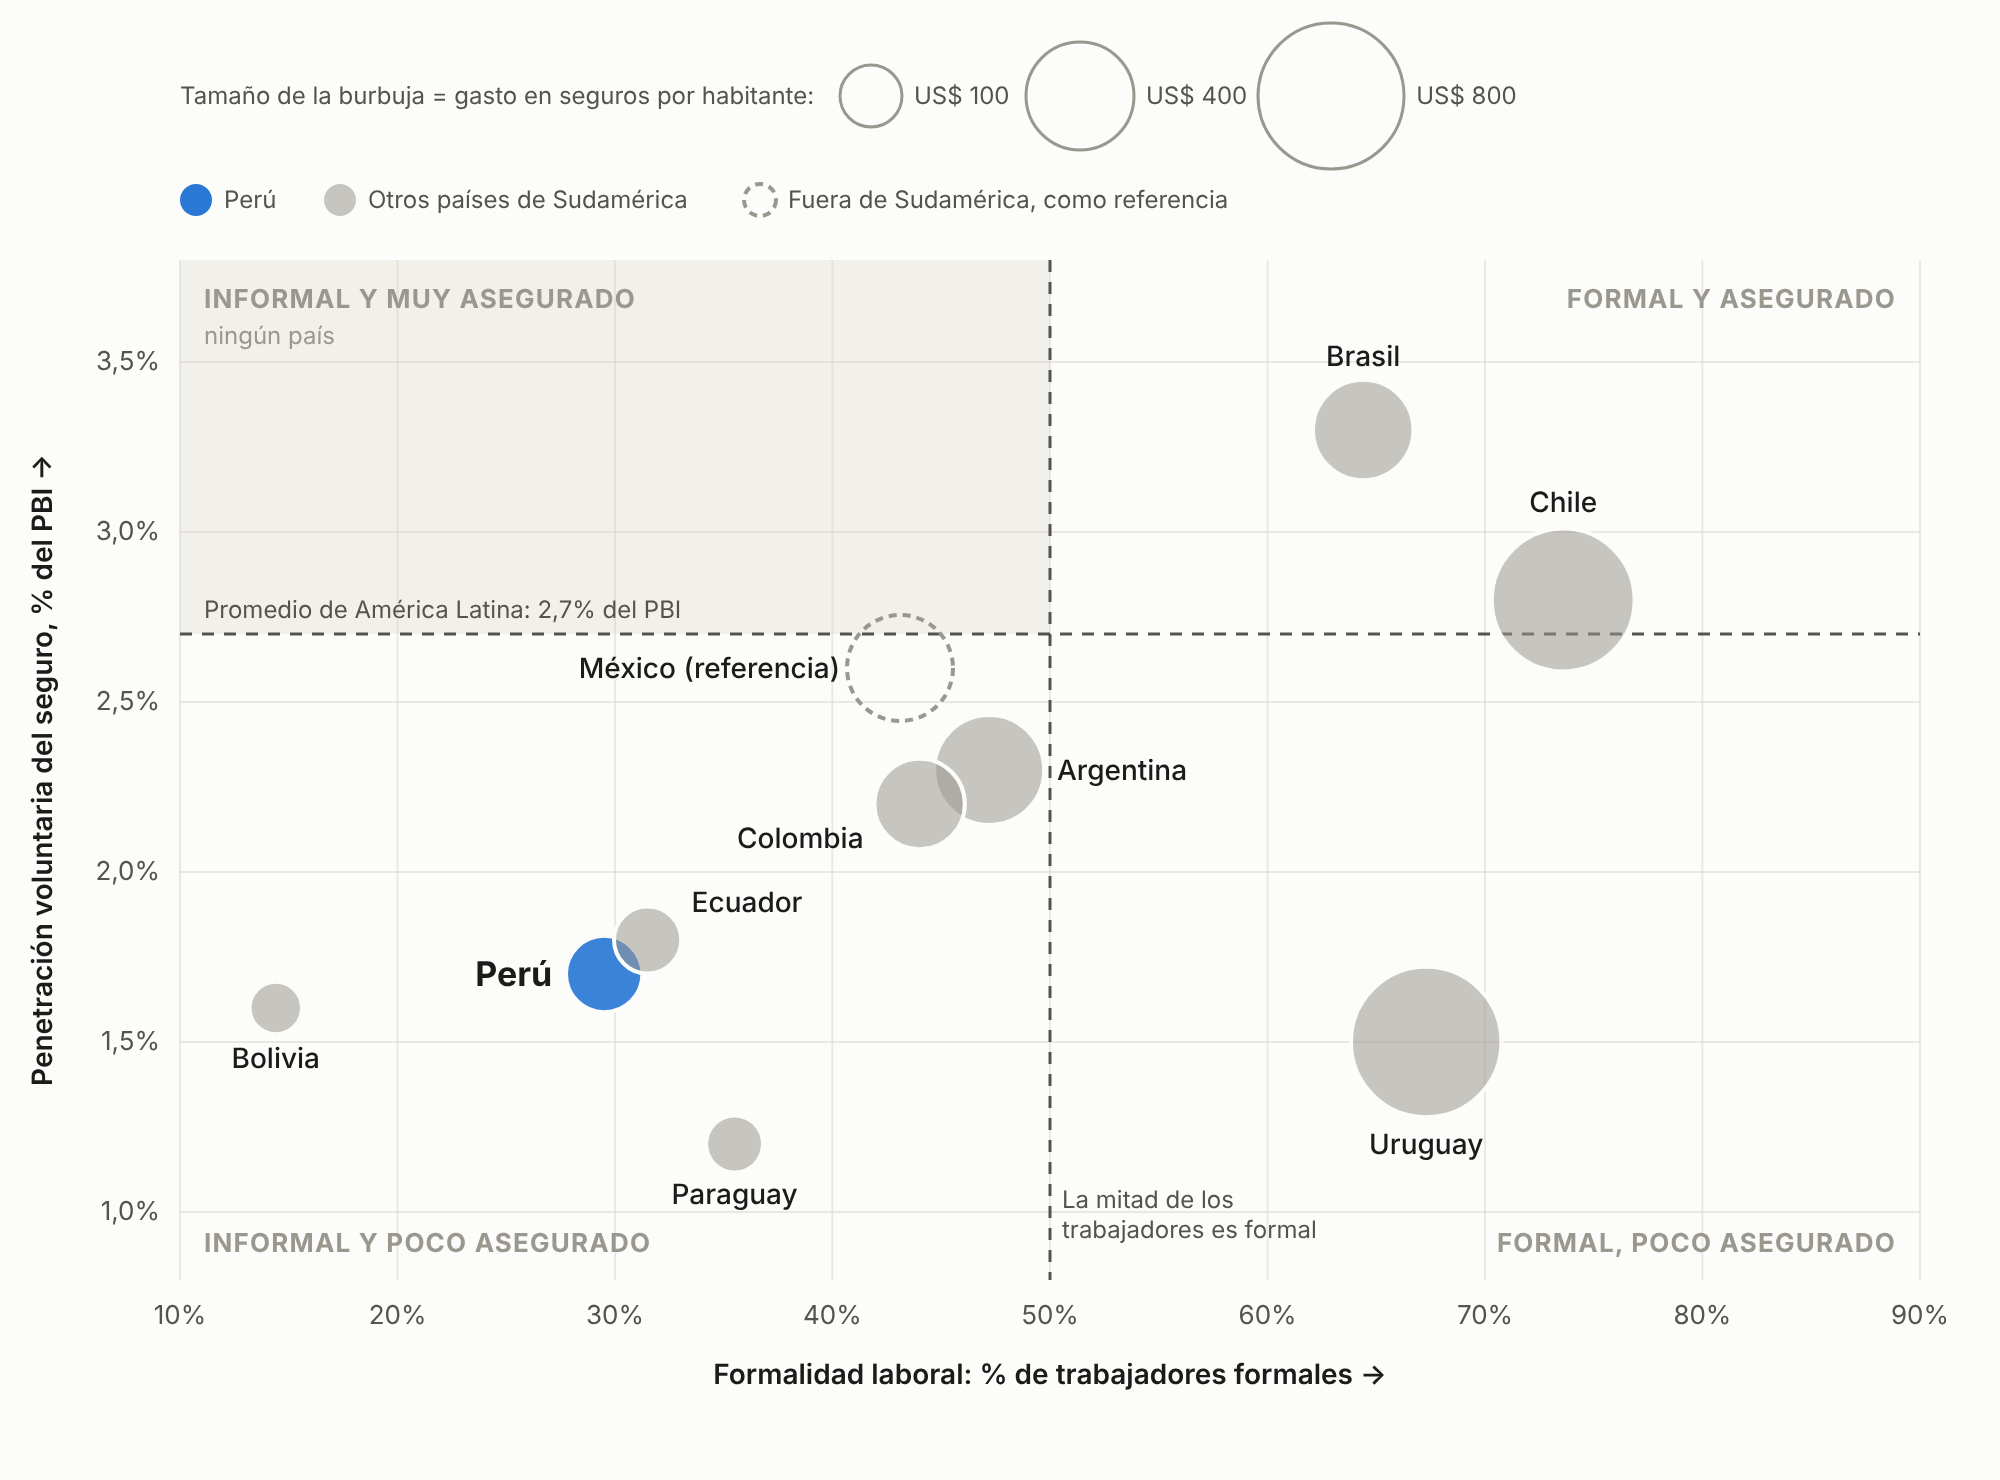
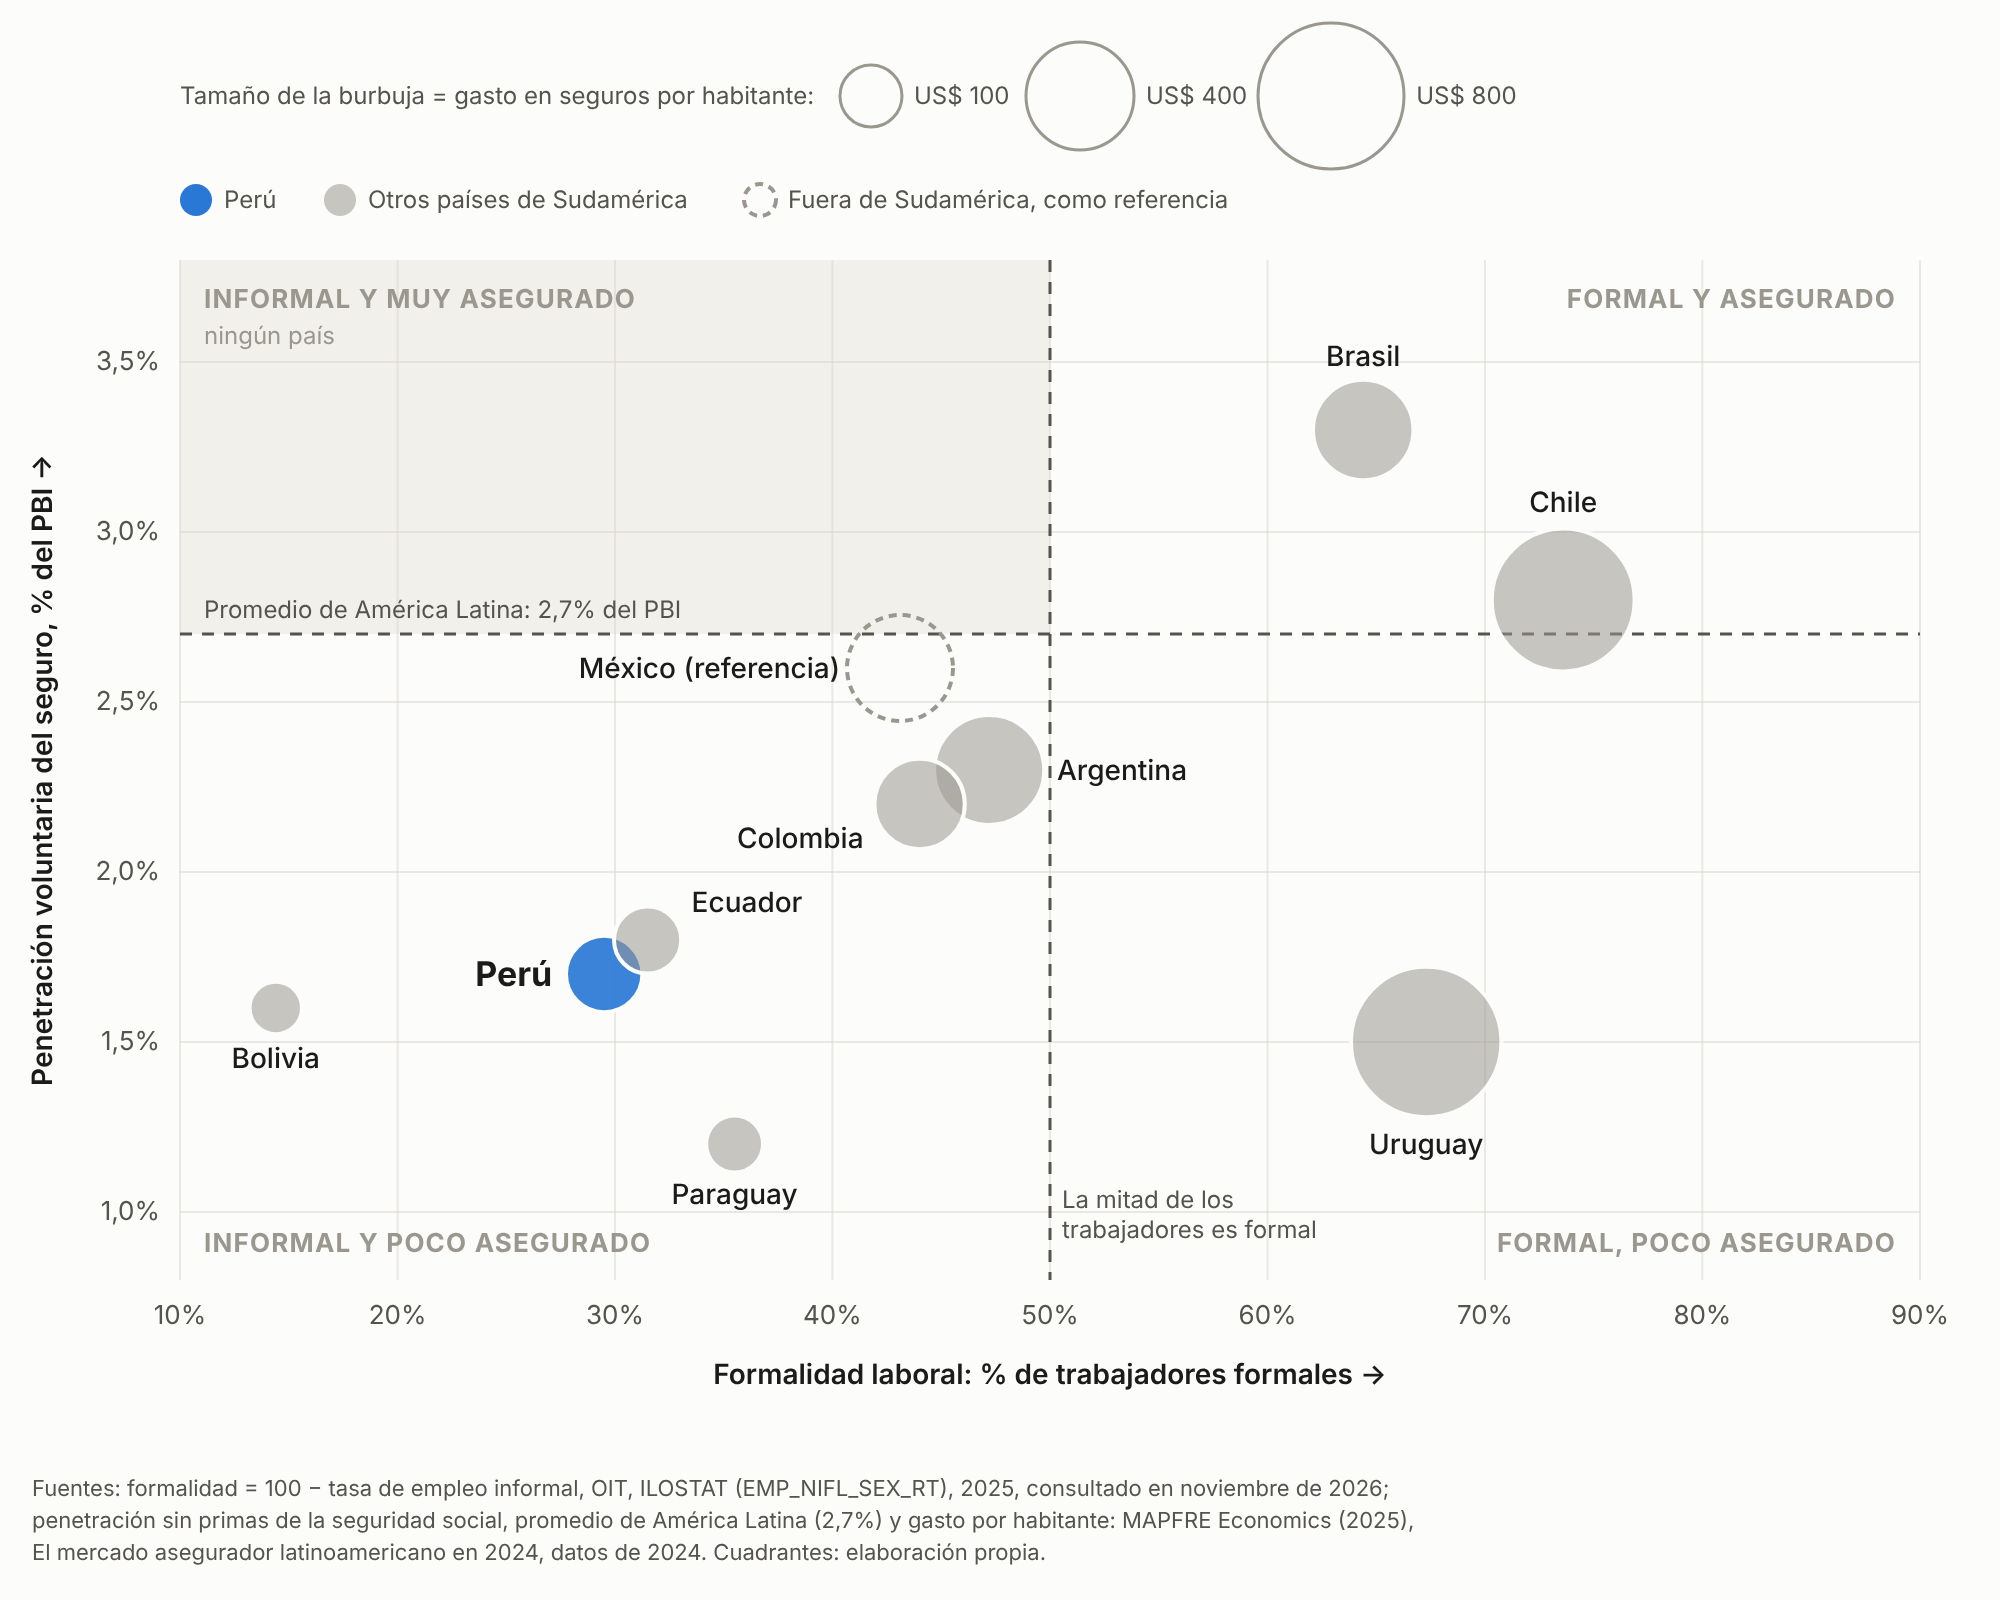
Agrega fuentes al pie de los tres gráficos y nota de verificación
Claude-Session: https://claude.ai/code/session_0172Gzwbb2YLHGW14wEzAdeb

diff --git a/reports/presentacion-sudamerica/fuentes-y-verificacion.md b/reports/presentacion-sudamerica/fuentes-y-verificacion.md
@@ -1,0 +1,45 @@
+# Fuentes y verificación de los tres gráficos
+
+Verificación hecha el 23 de noviembre de 2026. Se volvieron a descargar las fuentes y se comparó cada cifra del gráfico con la fuente: 157 cifras revisadas, 0 diferencias.
+
+## 1. Informalidad y penetración de seguros (`cuadrantes.svg` / `.png`)
+
+| Dato | Fuente | Año del dato |
+|---|---|---|
+| Formalidad (eje X) = 100 − tasa de empleo informal | OIT, ILOSTAT, indicador EMP_NIFL_SEX_RT (ambos sexos), consultado en rplumber.ilo.org | 2025 |
+| Penetración sin primas de la seguridad social (eje Y) | MAPFRE Economics (2025), *El mercado asegurador latinoamericano en 2024*, cuadro de penetración ajustada | 2024 |
+| Gasto en seguros por habitante (tamaño) | MAPFRE Economics (2025), mismo informe, cuadro de densidad | 2024 |
+| Promedio de América Latina, 2,7% del PBI | MAPFRE Economics (2025), mismo informe | 2024 |
+
+Cifras: Perú 70,5% informal / 1,7% / US$ 173; Bolivia 85,6 / 1,6 / 63; Ecuador 68,5 / 1,8 / 124; Paraguay 64,5 / 1,2 / 78; Colombia 56,0 / 2,2 / 261; México 56,9 / 2,6 / 383; Argentina 52,8 / 2,3 / 418; Brasil 35,6 / 3,3 / 338; Uruguay 32,7 / 1,5 / 853; Chile 26,4 / 2,8 / 762.
+
+Ojo: las cifras de informalidad de ILOSTAT difieren de las del *Panorama Laboral* de la OIT que cita la prensa (por ejemplo, Uruguay 32,7% frente a 22,2%), porque se calculan sobre bases distintas. En el gráfico se usa ILOSTAT, porque da la serie de todos los países desde una misma base de datos.
+
+## 2. Conductas de digitalización (`digitalizacion.svg` / `.png`)
+
+| Dato | Fuente | Año del dato |
+|---|---|---|
+| Tiene una cuenta | Banco Mundial (2025), Global Findex Database 2025, FX.OWN.TOTL.ZS (igual a account.t.d) | 2024 |
+| Hizo o recibió un pago digital | Banco Mundial (2025), Global Findex Database 2025, g20.any | 2024; Chile y Uruguay, 2021 (último disponible) |
+
+Consultado en api.worldbank.org.
+
+## 3. Parámetros de conducta financiera (`matriz-conducta.svg` / `.png`)
+
+Fuente: Banco Mundial (2025), Global Findex Database 2025, datos de 2024, api.worldbank.org.
+
+| Fila del gráfico | Código |
+|---|---|
+| Ahorró dinero en el último año | save.any.t.d |
+| Ahorró en un banco, financiera o billetera | fin17a.17a1.d |
+| Pidió prestado a familiares o amigos | fin22b |
+| Pidió prestado para gastos de salud | fin22d |
+| En una emergencia, recurriría a la familia | fin24fam |
+| En una emergencia, usaría sus ahorros | fin24sav |
+| Lo que más le preocupa: gastos médicos graves | fin45c |
+| Lo que más le preocupa: dinero para la vejez | fin45a |
+| Paga con regularidad a una aseguradora | fin19 |
+
+Las 90 celdas del gráfico coinciden con la fuente. La distancia es un cálculo propio: cada indicador se estandariza con los 20 países que tienen los nueve datos, y la distancia es la raíz del promedio de las nueve diferencias al cuadrado respecto de Perú.
+
+Los datos descargados están en `research_notes/Valor digital aseguradoras Sudamérica Perú/datos_findex_ilostat/`.
